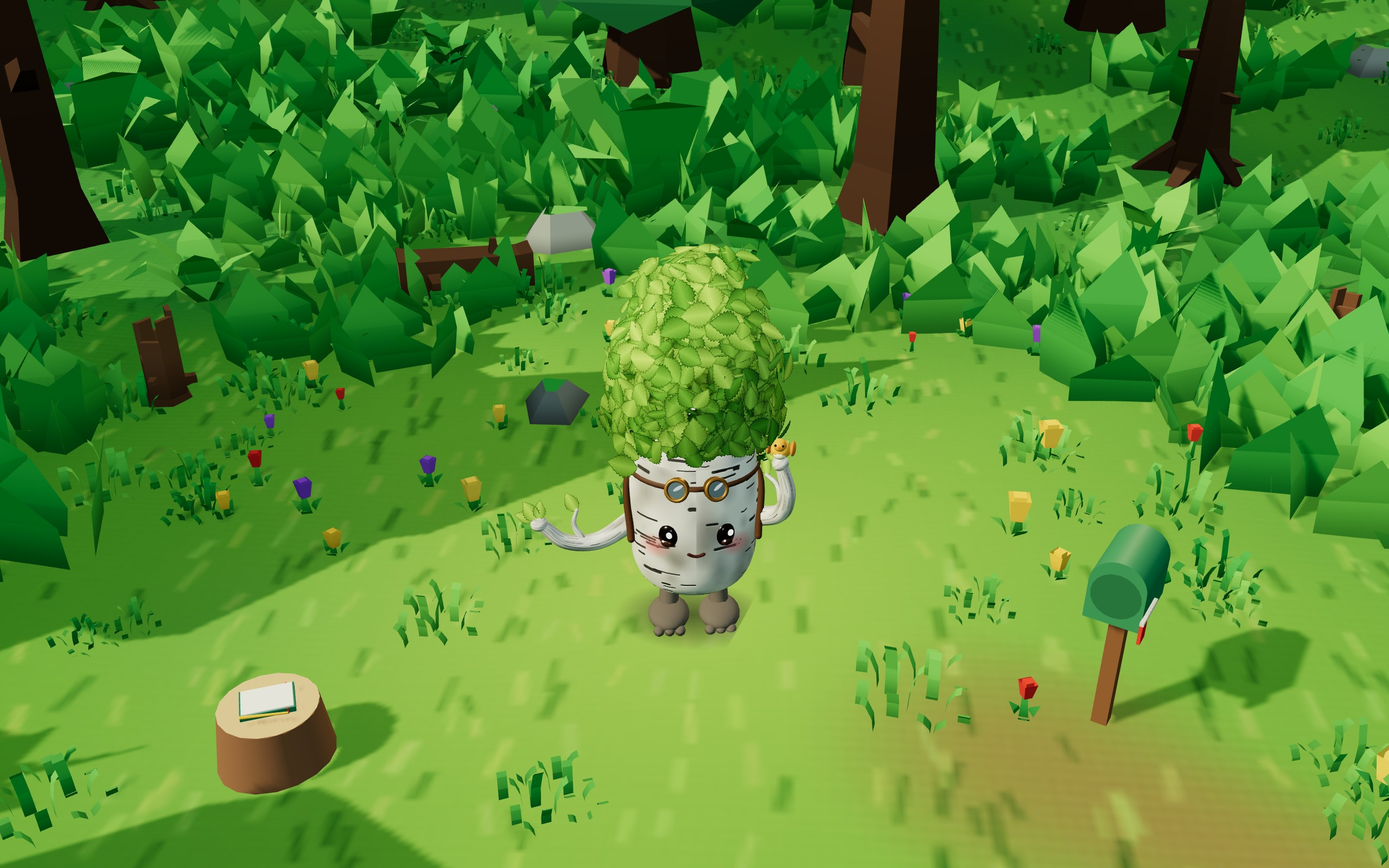
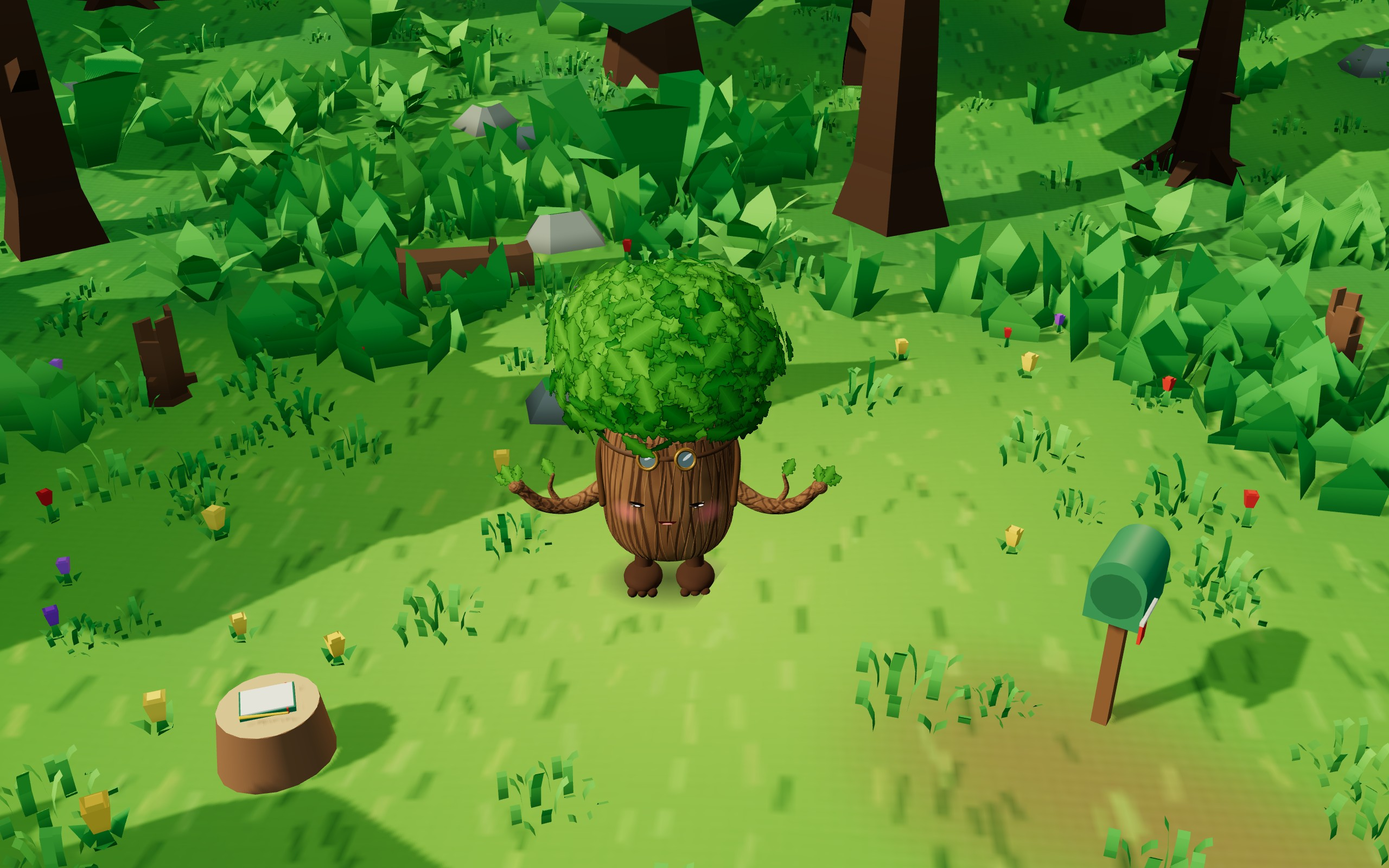
Motore 3D: espressioni corrette, alberi che non si sovrappongono, qualità adattiva
L'ultima espressione breve vince; il viso spaventato si toglie quando
l'albero viene posato. Gli alberi si tengono a distanza fra loro e da
cassetta e taccuino, e restano vicino a casa. Il pixel ratio scende fino
a 1 se il computer fatica. Ombrello di foglia centrato sulla chioma,
oggetti in mano più visibili. README del motore e schermate.

diff --git a/src/lib/giardino3d/index.js b/src/lib/giardino3d/index.js
@@ -58,7 +58,8 @@ export function creaGiardino(canvas, opzioni) {
 
   // _conservaFotogramma: solo per le catture dello schermo nelle pagine di prova
   const renderer = new THREE.WebGLRenderer({ canvas, antialias: true, powerPreference: "high-performance", preserveDrawingBuffer: !!(/** @type {any} */ (opzioni)._conservaFotogramma) });
-  renderer.setPixelRatio(Math.min(window.devicePixelRatio || 1, 2));
+  let rapporto = Math.min(window.devicePixelRatio || 1, 2); // pixel ratio massimo 2 (scende se il computer fatica)
+  renderer.setPixelRatio(rapporto);
   renderer.outputColorSpace = THREE.SRGBColorSpace;
   renderer.toneMapping = THREE.ACESFilmicToneMapping;
   renderer.shadowMap.enabled = true;
@@ -127,7 +128,7 @@ export function creaGiardino(canvas, opzioni) {
   const POSIZIONE = new THREE.Vector3();
   function inquadra() {
     const w = canvas.clientWidth || canvas.width, h = canvas.clientHeight || canvas.height;
-    renderer.setPixelRatio(Math.min(window.devicePixelRatio || 1, 2));
+    renderer.setPixelRatio(rapporto);
     renderer.setSize(w, h, false);
     camera.aspect = w / Math.max(1, h);
     camera.updateProjectionMatrix();
@@ -233,6 +234,24 @@ export function creaGiardino(canvas, opzioni) {
       const alto = Math.max(0, r.y - quota(r.x, r.z));
       a.ombra.scale.set(1.15 * s * (1 - alto * 0.25), 0.85 * s * (1 - alto * 0.25), 1);
     }
+    // gli alberi non si sovrappongono fra loro né alla cassetta e al taccuino
+    const ostacoli = [[2.7, 1.4, 0.9], [-2.6, 1.8, 0.9]];
+    for (let i = 0; i < alberi.length; i++) {
+      const pi = alberi[i].comp.posizione;
+      for (let j = i + 1; j < alberi.length; j++) {
+        const pj = alberi[j].comp.posizione;
+        const dx = pj.x - pi.x, dz = pj.y - pi.y, d = Math.hypot(dx, dz) || 0.001;
+        if (d < 1.5) {
+          const k = (1.5 - d) / 2 / d;
+          if (!alberi[i].comp.preso) { pi.x -= dx * k; pi.y -= dz * k; }
+          if (!alberi[j].comp.preso) { pj.x += dx * k; pj.y += dz * k; }
+        }
+      }
+      for (const [ox, oz, r] of ostacoli) {
+        const dx = pi.x - ox, dz = pi.y - oz, d = Math.hypot(dx, dz) || 0.001;
+        if (d < r && !alberi[i].comp.preso) { pi.x = ox + (dx / d) * r; pi.y = oz + (dz / d) * r; }
+      }
+    }
     // lo sguardo del principale segue il puntatore
     if (performance.now() - ultimoPuntatore < 2500 && !ridotto) {
       const a = alberi[0].albero;
@@ -240,10 +259,22 @@ export function creaGiardino(canvas, opzioni) {
       a.viso.guarda((ndc.x - testa.x) * 2.2, (ndc.y - testa.y) * 2.2);
     }
   }
+  // qualità adattiva: se il computer fatica (sotto i 45 fps per qualche secondo),
+  // la risoluzione scende un poco, fino a pixel ratio 1
+  let media = 1 / 60, finestra = 0;
   function disegna() {
     orologio.update(performance.now());
-    passo(Math.min(orologio.getDelta(), 0.05));
+    const dt = orologio.getDelta();
+    passo(Math.min(dt, 0.05));
     renderer.render(scena, camera);
+    media += (Math.min(dt, 0.2) - media) * 0.05;
+    finestra += dt;
+    if (finestra > 3 && media > 1 / 45 && rapporto > 1) {
+      rapporto = Math.max(1, rapporto - 0.25);
+      renderer.setPixelRatio(rapporto);
+      renderer.setSize(canvas.clientWidth, canvas.clientHeight, false);
+      finestra = 0;
+    }
   }
   const avvia = () => { if (!fermo) renderer.setAnimationLoop(disegna); };
   const visibilita = () => {

diff --git a/src/lib/giardino3d/comportamento.js b/src/lib/giardino3d/comportamento.js
@@ -46,6 +46,8 @@ export { busta };
 // ------------------------------------------------------------------ Routine
 /** @type {Record<string, Attivita>} */
 export const ROUTINE = {
+  // fermo davanti alla camera (per le prove e per i momenti di quiete)
+  fermo: { durata: 6, posa: (p) => { p.giro = 0; } },
   stiracchia: {
     durata: 3.4,
     inizia: (c) => c.viso.breve("sbadiglia", 2.2),
@@ -335,7 +337,7 @@ export function creaComportamento(albero, op) {
     if (a.cammina) {
       // un punto nella radura, lontano dalla cassetta e dal taccuino
       for (let k = 0; k < 20; k++) {
-        const ang = Math.random() * Math.PI * 2, r = 0.8 + Math.random() * 2.2;
+        const ang = Math.random() * Math.PI * 2, r = 0.6 + Math.random() * 1.4;
         const m = new THREE.Vector2(casa.x + Math.cos(ang) * r, casa.y + Math.sin(ang) * r * 0.7);
         if (m.length() > RAGGIO_RADURA - 1.5) continue;
         if (Math.hypot(m.x - 2.7, m.y - 1.4) < 1 || Math.hypot(m.x + 2.6, m.y - 1.8) < 1) continue;
@@ -356,7 +358,7 @@ export function creaComportamento(albero, op) {
     if (piove && azione !== "giornale-ombrello" && Math.random() < 0.65) return avvia("ripara");
     if (m.temperatura > 28 && Math.random() < 0.35) return avvia("fa-vento");
     // torna verso casa se si è allontanato
-    if (pos.distanceTo(casa) > 2.6 && Math.random() < 0.6) { meta = casa.clone(); att = { nome: "torna", a: ROUTINE.cammina, t: 0, ctx: contesto({}) }; return; }
+    if (pos.distanceTo(casa) > 1.6 && Math.random() < 0.7) { meta = casa.clone(); att = { nome: "torna", a: ROUTINE.cammina, t: 0, ctx: contesto({}) }; return; }
     if (azione && AZIONI[azione] && (contaAttivita % 2 === 1 || Math.random() < 0.3)) return avvia(azione);
     const gusti = GUSTI[umore] ?? GUSTI.curioso;
     const lista = Object.entries(gusti);
@@ -372,7 +374,7 @@ export function creaComportamento(albero, op) {
     const ctx = contesto({});
     if (nome === "lettera") {
       const d = new THREE.Vector2(op.cassetta.x - pos.x, op.cassetta.z - pos.y);
-      ctx.dati.versoCassetta = THREE.MathUtils.clamp(Math.atan2(d.x, d.y), -1.2, 1.2);
+      ctx.dati.versoCassetta = THREE.MathUtils.clamp(Math.atan2(d.x, d.y), -0.6, 0.6); // si gira, ma il viso resta verso di noi
     }
     // svegliarsi di soprassalto se dormiva
     if (att?.nome === "dormi") { att.a.fine?.(att.ctx); libera(); att = null; }
@@ -415,10 +417,11 @@ export function creaComportamento(albero, op) {
     lascia() {
       if (!preso) return;
       preso = false; caduta = true; vy = 0;
-      albero.viso.breve("spaventato", 0.01);
       casa.set(pos.x, pos.y);
     },
     get preso() { return preso; },
+    /** Posizione sul prato (x, z): si può spostare per non sovrapporsi agli altri. */
+    get posizione() { return pos; },
     get casa() { return casa; },
 
     /** @param {number} dt @param {number} t */
@@ -447,7 +450,7 @@ export function creaComportamento(albero, op) {
           altezza += vy * dt;
           if (altezza <= 0) {
             altezza = 0;
-            if (vy < -1.5) vy = -vy * 0.3; else { caduta = false; vy = 0; albero.viso.breve("spaventato", 0.01); reagisci("posato"); }
+            if (vy < -1.5) vy = -vy * 0.3; else { caduta = false; vy = 0; albero.viso.pulisci(); reagisci("posato"); }
           }
           p.bracci[0].alza = p.bracci[1].alza = 1.2;
           p.gambe = [0.3, -0.3];

diff --git a/src/lib/giardino3d/viso.js b/src/lib/giardino3d/viso.js
@@ -191,6 +191,8 @@ export function creaViso(tronco, m) {
       if (!ex) return;
       brevi.push({ e: ex, inizio: 0, fine: durata });
     },
+    /** Toglie tutte le espressioni brevi (si torna all'umore). */
+    pulisci() { brevi.length = 0; },
     /** La bocca si muove come se parlasse (o canticchiasse) per qualche secondo. @param {number} s @param {boolean} [canta] */
     parla(s, canta = false) {
       if (canta) canticchia = s; else parla = s;
@@ -207,13 +209,14 @@ export function creaViso(tronco, m) {
       // bersaglio = base + espressioni brevi (con dissolvenza in entrata e in uscita)
       /** @type {Record<string, number>} */
       const b = { ...base };
-      for (let i = brevi.length - 1; i >= 0; i--) {
-        const x = brevi[i];
+      // dalla più vecchia alla più nuova: l'ultima espressione arrivata vince
+      for (const x of brevi) {
         x.inizio += dt;
         const peso = Math.min(1, x.inizio / 0.2) * Math.min(1, Math.max(0, (x.fine - x.inizio) / 0.3));
         for (const [k, v] of Object.entries(x.e)) b[k] = b[k] + (/** @type {number} */ (v) - b[k]) * peso;
-        if (x.inizio >= x.fine) brevi.splice(i, 1);
       }
+      for (let i = brevi.length - 1; i >= 0; i--) if (brevi[i].inizio >= brevi[i].fine) brevi.splice(i, 1);
+      if (brevi.length > 12) brevi.splice(0, brevi.length - 12);
       // sguardo: segue il puntatore, altrimenti ogni tanto si guarda intorno
       if (guardaAttivo > 0) { guardaAttivo -= dt; b.sguardoX = guarda.x; b.sguardoY = guarda.y; }
       else if (!ridotto) {

diff --git a/src/lib/giardino3d/oggetti.js b/src/lib/giardino3d/oggetti.js
@@ -28,7 +28,7 @@ export function ombrelloFoglia(alto = 0.9) {
   g.add(tubo([[0, 0, 0], [0, alto * 0.6, 0], [0.02, alto, 0]], 0.024, 0.016, mat("#6a8a2a"), 6, 6));
   const f = foglia("quercia", "#4caa38", 1.5);
   f.rotation.set(-Math.PI / 2 + 0.15, 0, 0);
-  f.position.set(0, alto + 0.02, -0.95);
+  f.position.set(-0.5, alto + 0.02, 0.95); // centrata sopra la chioma, non sopra la mano
   g.add(f);
   return g;
 }

diff --git a/src/lib/giardino3d/README.md b/src/lib/giardino3d/README.md
@@ -1,0 +1,58 @@
+# Giardino 3D (motore)
+
+Il giardino di Linfa in 3D: una radura con fino a 7 alberi-personaggio, meteo,
+ora del giorno e stagioni. Moduli ES in JavaScript con JSDoc; dipendenza
+`three` 0.187.0 (import da `three` e `three/addons/loaders/GLTFLoader.js`).
+Modelli e licenze del bosco in `public/giardino3d/` (Kenney Nature Kit, CC0).
+
+## API
+
+```js
+import { creaGiardino, MODELLI, modelloDalSeme } from "@/lib/giardino3d";
+
+const g = creaGiardino(canvas, {
+  alberi: [{ id, seme, modello?, strada?, nome, giorni, principale }], // fino a 7
+  meteo: { cielo: "sole", temperatura: 18 },  // sole, nuvole, pioggia, temporale, neve, nebbia
+  ora: "giorno",                               // alba, giorno, tramonto, notte
+  stagione: "estate",
+  azione: "leggere",                           // una delle 23 di src/lib/albero/azioni.ts
+  umore: "curioso",                            // 9 umori
+  movimentoRidotto: false,
+});
+g.imposta({ ora: "notte" });          // qualsiasi parte, con transizioni morbide
+g.reagisci("lettera");                // saluta, lettera, festa, carezza
+const togli = g.su("tocca-albero", ({ id }) => …); // pronto, tocca-albero, tocca-cassetta, tocca-taccuino, trascina-albero
+g.letteraLetta();                     // la bandierina della cassetta torna giù
+g.distruggi();                        // libera GPU, eventi, timer
+```
+
+Solo nel browser (usa `document` e il canvas): in React va dentro `useEffect`.
+Il canvas si dimensiona con il CSS; il motore lo segue con un ResizeObserver.
+
+## File
+
+| File | Che cosa fa |
+|---|---|
+| `index.js` | `creaGiardino`, camera, puntatore (clic, trascinamento, sguardo), ciclo, qualità adattiva |
+| `ambiente.js` | Radura, bosco Kenney in istanze, luci dell'ora, meteo, stagioni, cassetta e taccuino |
+| `albero.js` | L'albero-personaggio: tronco, chioma di foglie in istanze, braccia, gambe, accessori della strada |
+| `viso.js` | Viso «cucciolo»: umori, espressioni brevi, ciglia, sguardo, bocca che parla |
+| `comportamento.js` | Posa a strati, routine, sonno, meteo, reazioni, trascinamento |
+| `azioni.js` | Le 23 azioni del giorno |
+| `oggetti.js` | Oggetti 3D delle azioni e delle routine |
+| `modelli.js` | 16 specie e 30 modelli; `modelloDalSeme` |
+| `texture.js` | Foglie, cortecce, guance, stoffe e sprite dipinti su canvas |
+
+## Prestazioni
+
+Ombre del bosco precalcolate (si rifanno solo quando cambia la luce); alberi e
+foglie in istanze; pixel ratio al massimo 2, che scende fino a 1 se il computer
+fatica; pausa con la scheda nascosta. Misure (computer di sviluppo):
+
+| Scena | 2560×1600 | 1280×800 |
+|---|---|---|
+| 1 albero | ≈ 6,3–6,6 ms | non misurato |
+| 7 alberi | ≈ 8,2–8,4 ms | ≈ 4,4 ms |
+
+Pagine di prova (fuori da Next): `prototipi/foresta-3d/giardino.html` (comandi
+per tutto) e `prototipi/foresta-3d/modelli30.html` (foglio dei 30 modelli).
